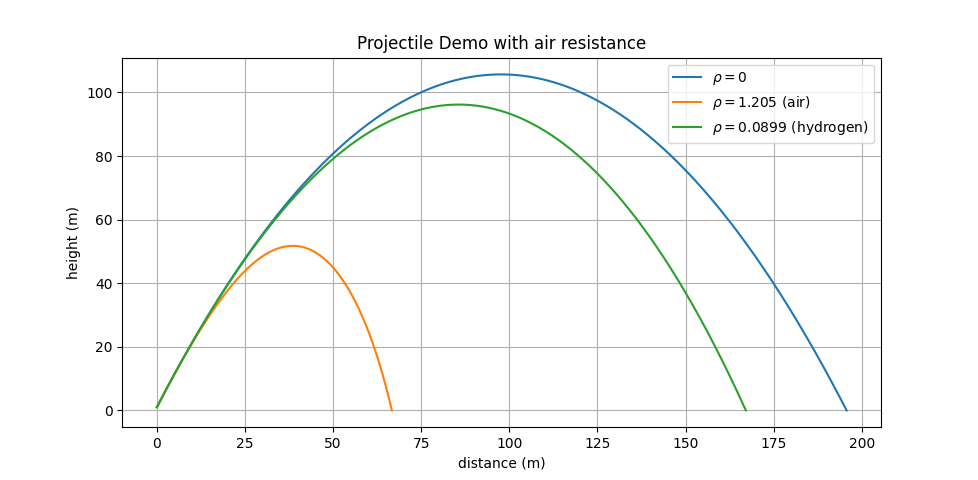
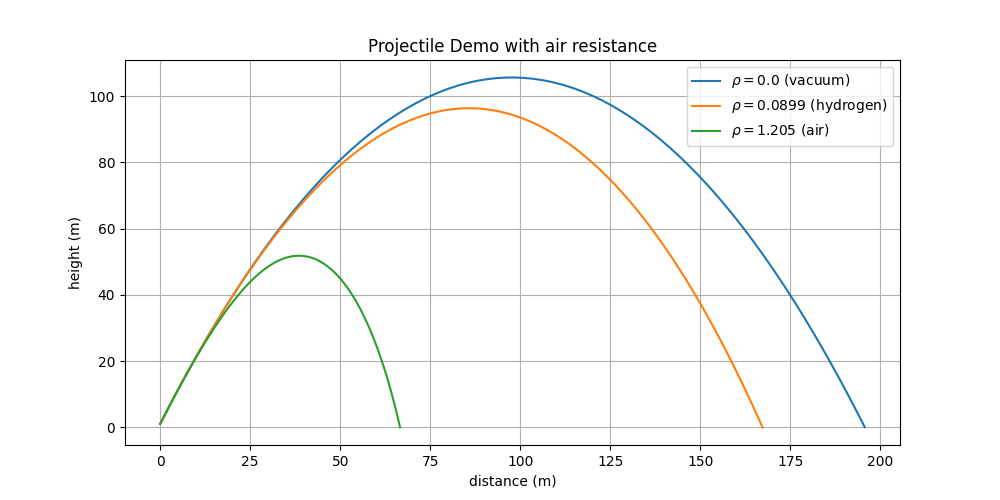
Updated README, renamed demos dealing with air resistance to convey they are the same model (a vs b), but just different method (iterative vs scipy). Changed order of air resistance plots to better convey how rho affects the height and distance of the trajectory path.

diff --git a/demo_05b_projectile_resistance_ode.py b/demo_05b_projectile_resistance_ode.py
@@ -66,7 +66,7 @@ def run_projectile_resistance_demo(launch_angle, v0, h):
     hit_target.terminal = True
     # We must be moving downwards (don't stop before we begin moving upwards!)
     hit_target.direction = -1
-    for loop, rho in enumerate([rho_air, rho_hydrogen]):
+    for loop, rho in enumerate([rho_hydrogen, rho_air]):
 
         # scipy.integrate.solve_ivp(func, t_span, y0, args=() ...)
         # each event occurs at the zeros of a continuous function of time and state
@@ -127,7 +127,7 @@ def plot(x, y):
     ax1.set_title('Projectile Demo with air resistance')
     ax1.set_xlabel('distance (m)')
     ax1.set_ylabel('height (m)')
-    ax1.legend(['$\\rho=0$', f'$\\rho={rho_air}$ (air)', f'$\\rho={rho_hydrogen}$ (hydrogen)'])
+    ax1.legend(['$\\rho=0.0$ (vacuum)', f'$\\rho={rho_hydrogen}$ (hydrogen)', f'$\\rho={rho_air}$ (air)'])
 
     plt.grid()
     plt.show()

diff --git a/demo_05a_projectile_resistance_iterative.py b/demo_05a_projectile_resistance_iterative.py
@@ -50,7 +50,7 @@ def run_projectile_resistance_demo(launch_angle, v0, h):
     X_WD = list()
     Y_WD = list()
 
-    for loop, rho in enumerate([rho_air, rho_hydrogen]):
+    for loop, rho in enumerate([rho_hydrogen, rho_air]):
         sol = iterative((x0, y0, Vx0, Vy0), dt, steps, rho)
 
         # Retrieve the solution and append
@@ -152,7 +152,7 @@ def plot(x, y):
     ax1.set_title('Projectile Demo with air resistance')
     ax1.set_xlabel('distance (m)')
     ax1.set_ylabel('height (m)')
-    ax1.legend(['$\\rho=0$', f'$\\rho={rho_air}$ (air)', f'$\\rho={rho_hydrogen}$ (hydrogen)'])
+    ax1.legend(['$\\rho=0.0$ (vacuum)', f'$\\rho={rho_hydrogen}$ (hydrogen)', f'$\\rho={rho_air}$ (air)'])
 
     plt.grid()
     plt.show()

diff --git a/README.md b/README.md
@@ -294,6 +294,7 @@ This demo improves on the previous section by using the scipy built-in function 
         ay = -k / m * Vxy * Vy - G  # acceleration in y direction
         return Vx, Vy, ax, ay    
 
+
     def hit_target(t, u, *args):
         # We've hit the target if the z-coordinate is 0.
         return u[1]
@@ -354,17 +355,6 @@ This demo improves on the previous section by using the scipy built-in function 
         y = [Y_ND, Y_WD]
     
         plot(x, y)
-    
-    
-    def deriv(t, u, rho):
-        x, y, Vx, Vy = u
-        k = 0.5 * Cd * rho * A  # convenience constant
-    
-        Vxy = np.hypot(Vx, Vy)
-        ax = -k / m * Vxy * Vx  # acceleration in x direction
-        ay = -k / m * Vxy * Vy - G  # acceleration in y direction
-        return Vx, Vy, ax, ay
-
 
 ## Projectile with air resistance to target
 
